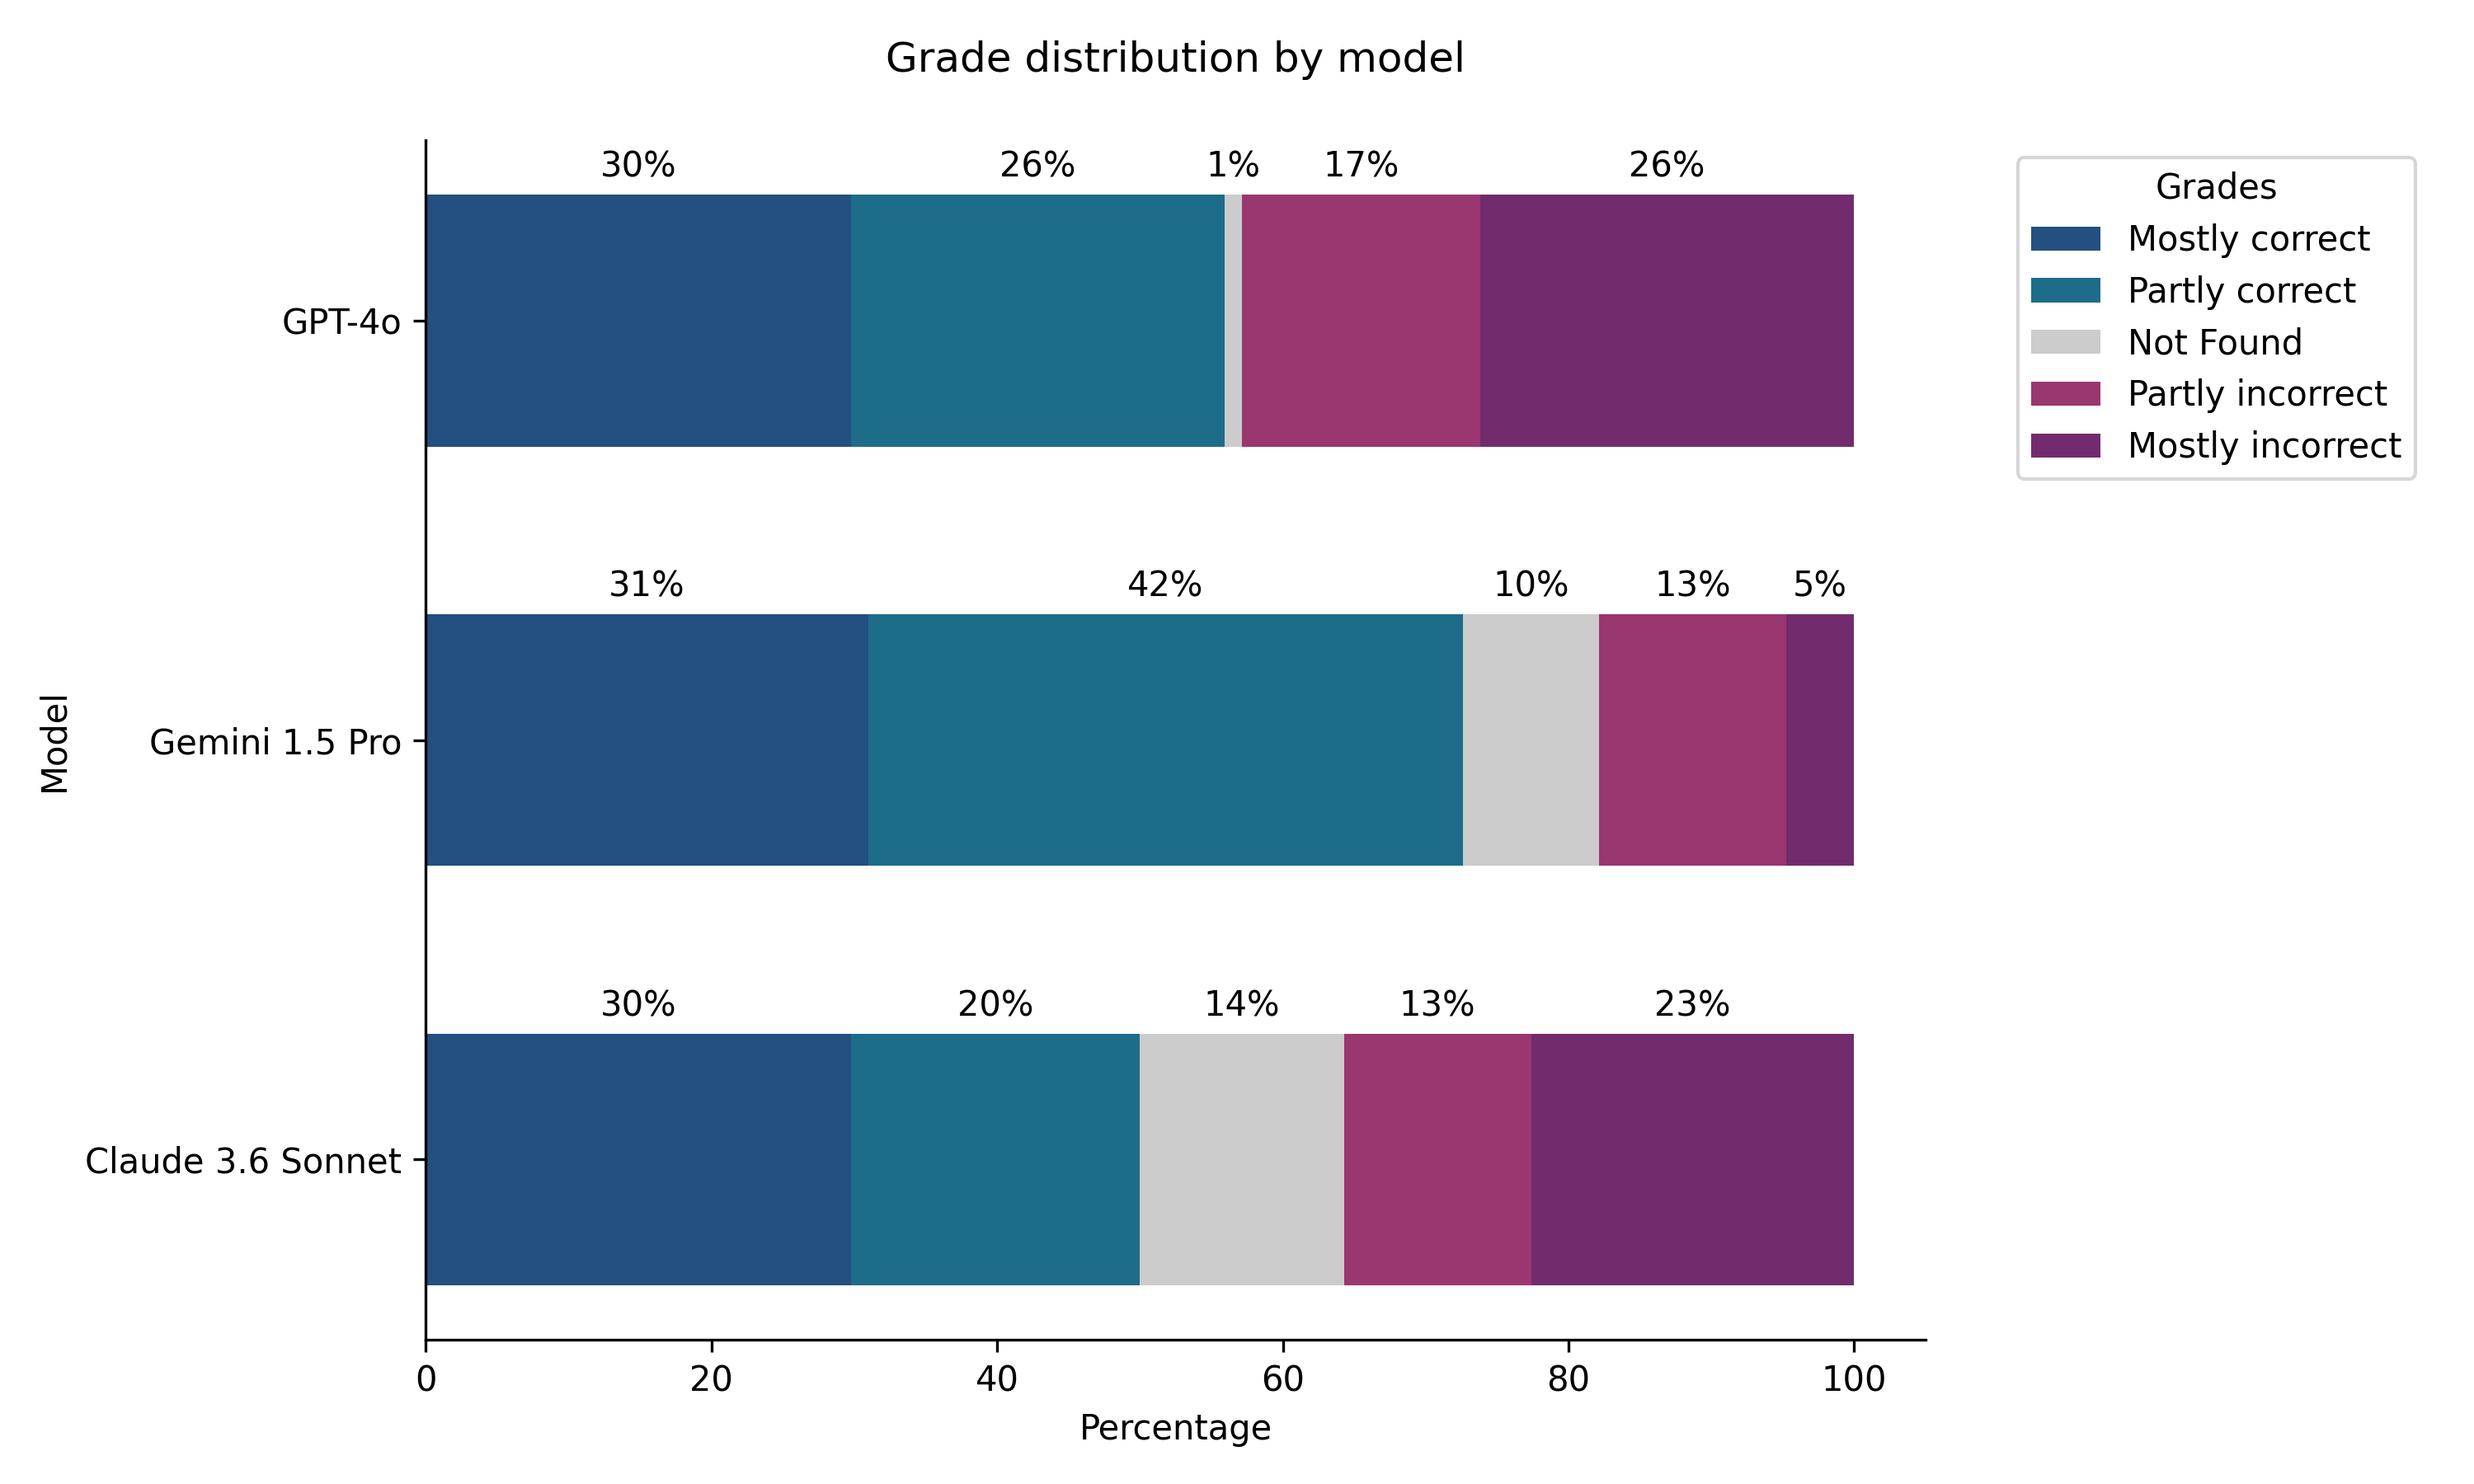
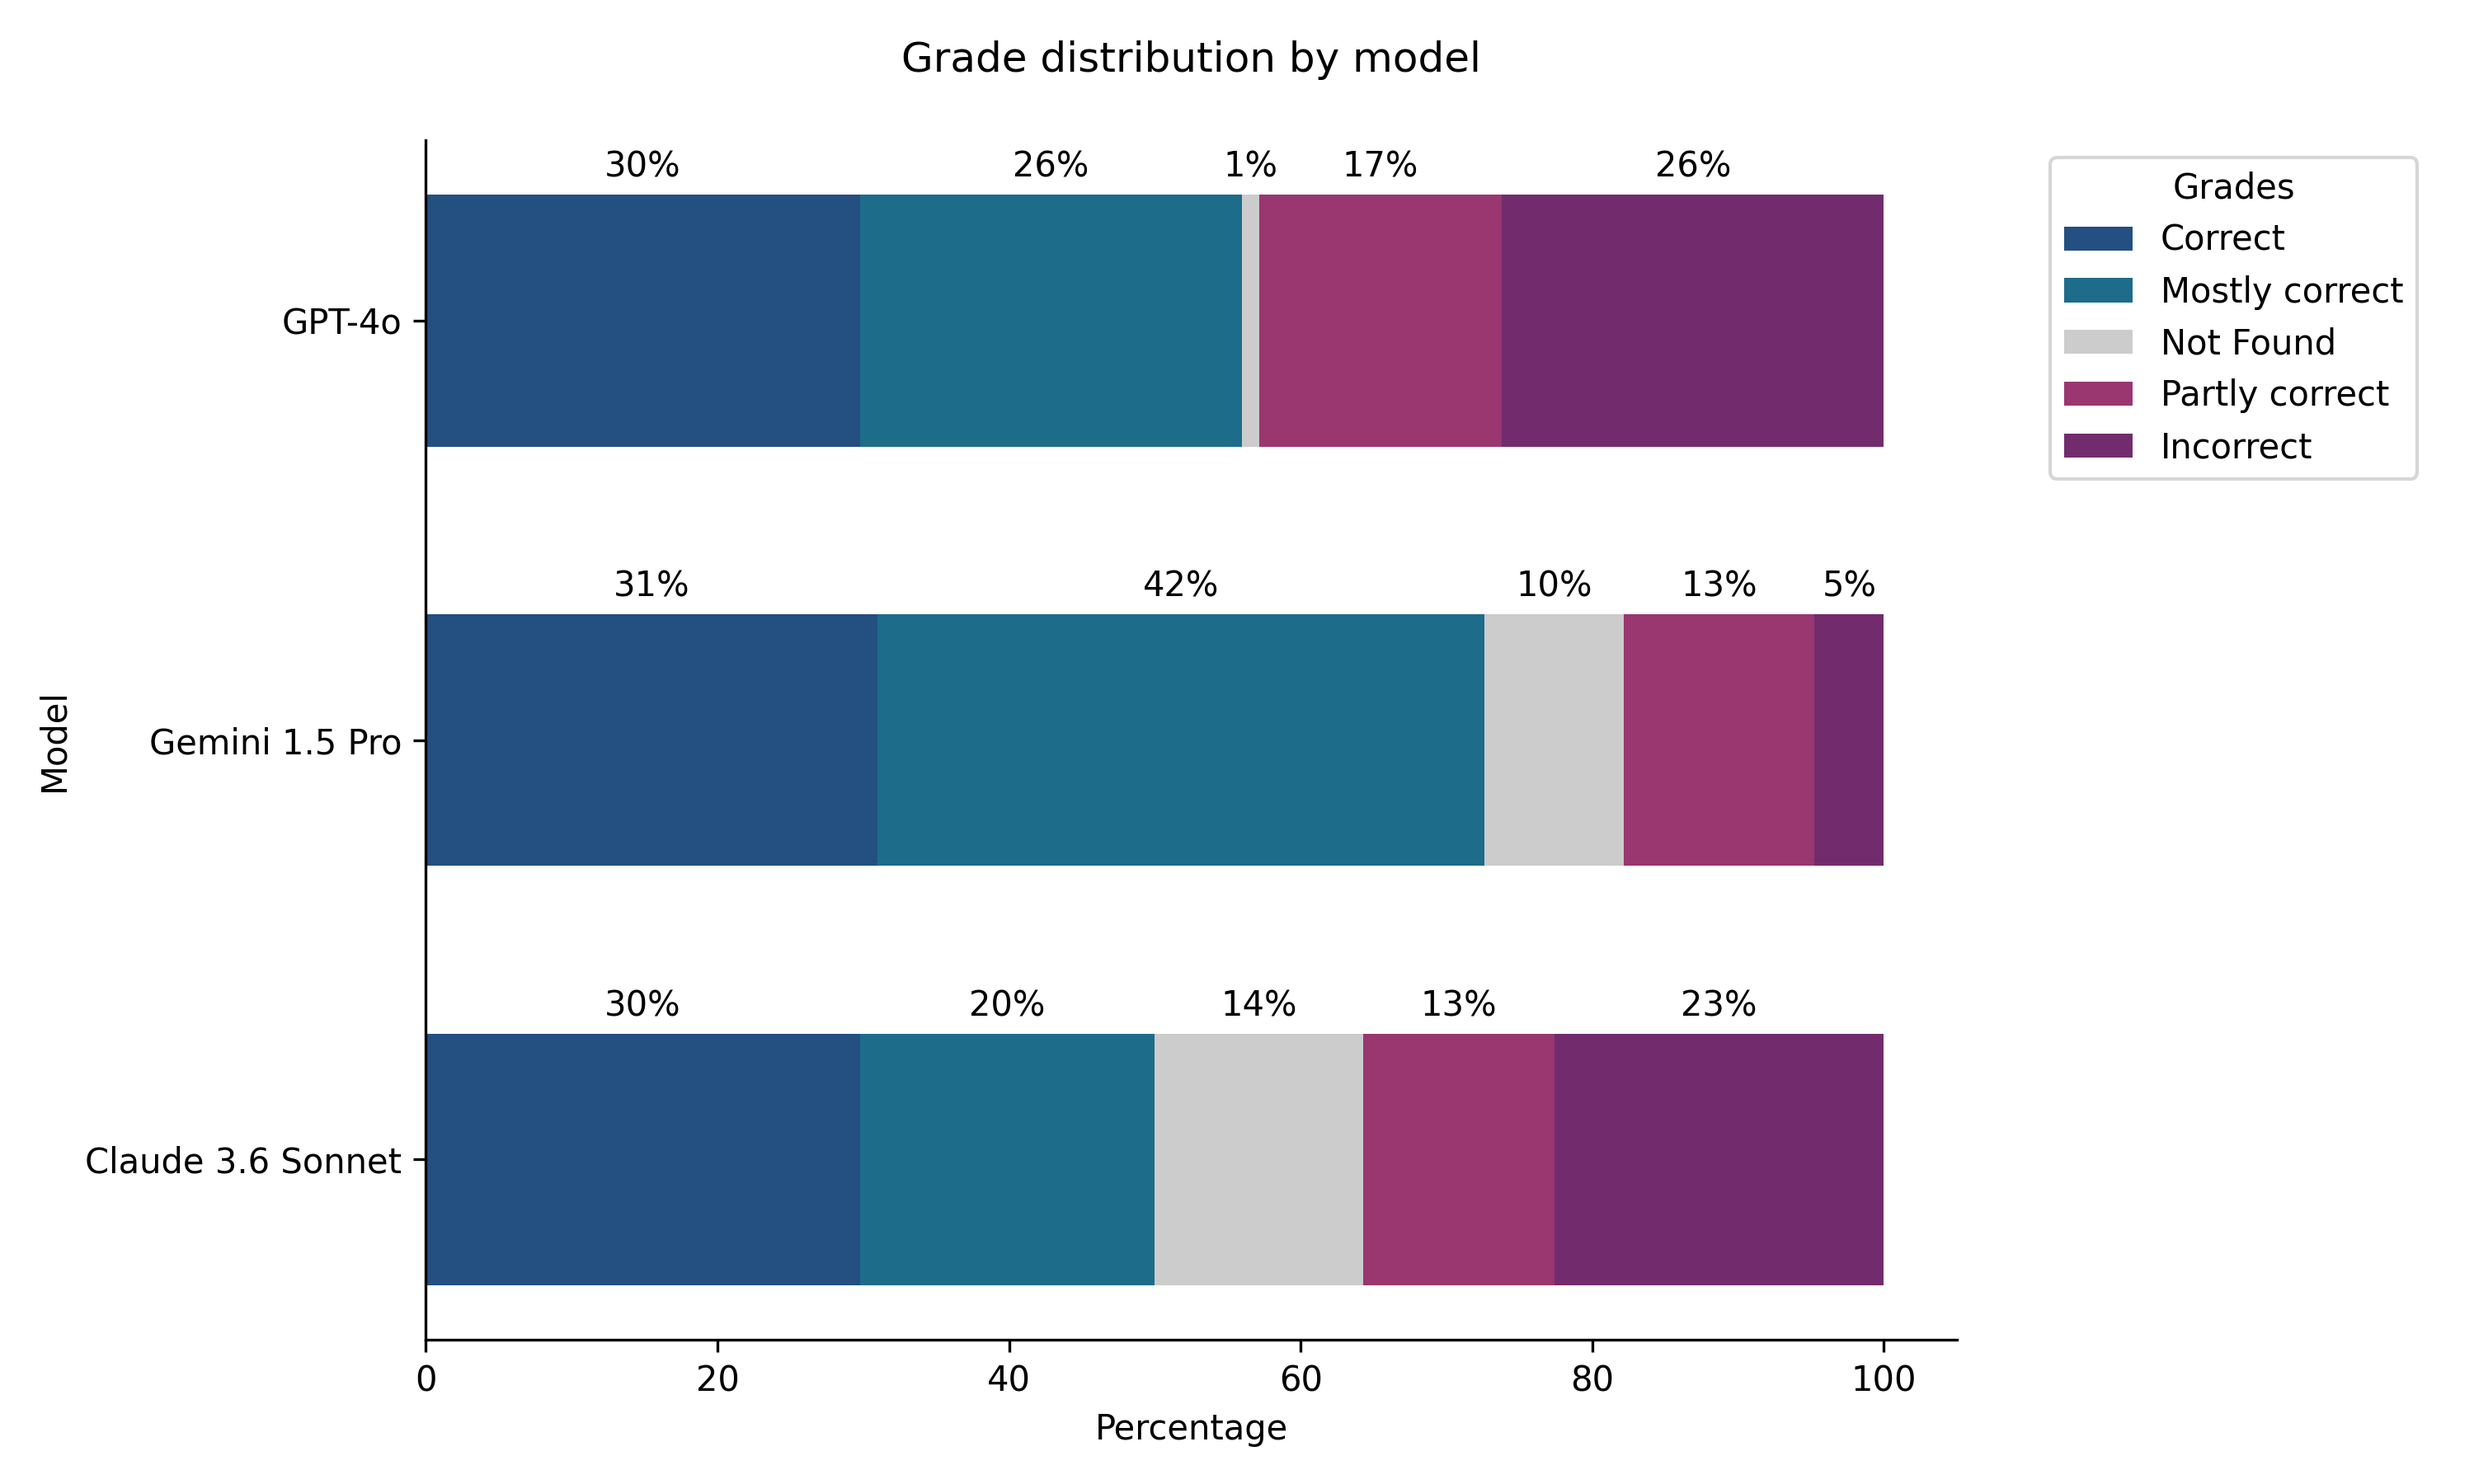
Better legend for grade distribution

diff --git a/src/wimmelbench/stats.py b/src/wimmelbench/stats.py
@@ -198,11 +198,11 @@ def plot_grade_distribution(
     """Create a horizontal stacked bar chart showing grade distribution for each model."""
     models = list(grades_by_model.keys())
     grade_mapping = {
-        3: "Mostly correct",
-        2: "Partly correct",
+        3: "Correct",
+        2: "Mostly correct",
         -1: "Not Found",
-        1: "Partly incorrect",
-        0: "Mostly incorrect",
+        1: "Partly correct",
+        0: "Incorrect",
     }
     grade_labels = list(grade_mapping.values())
 
